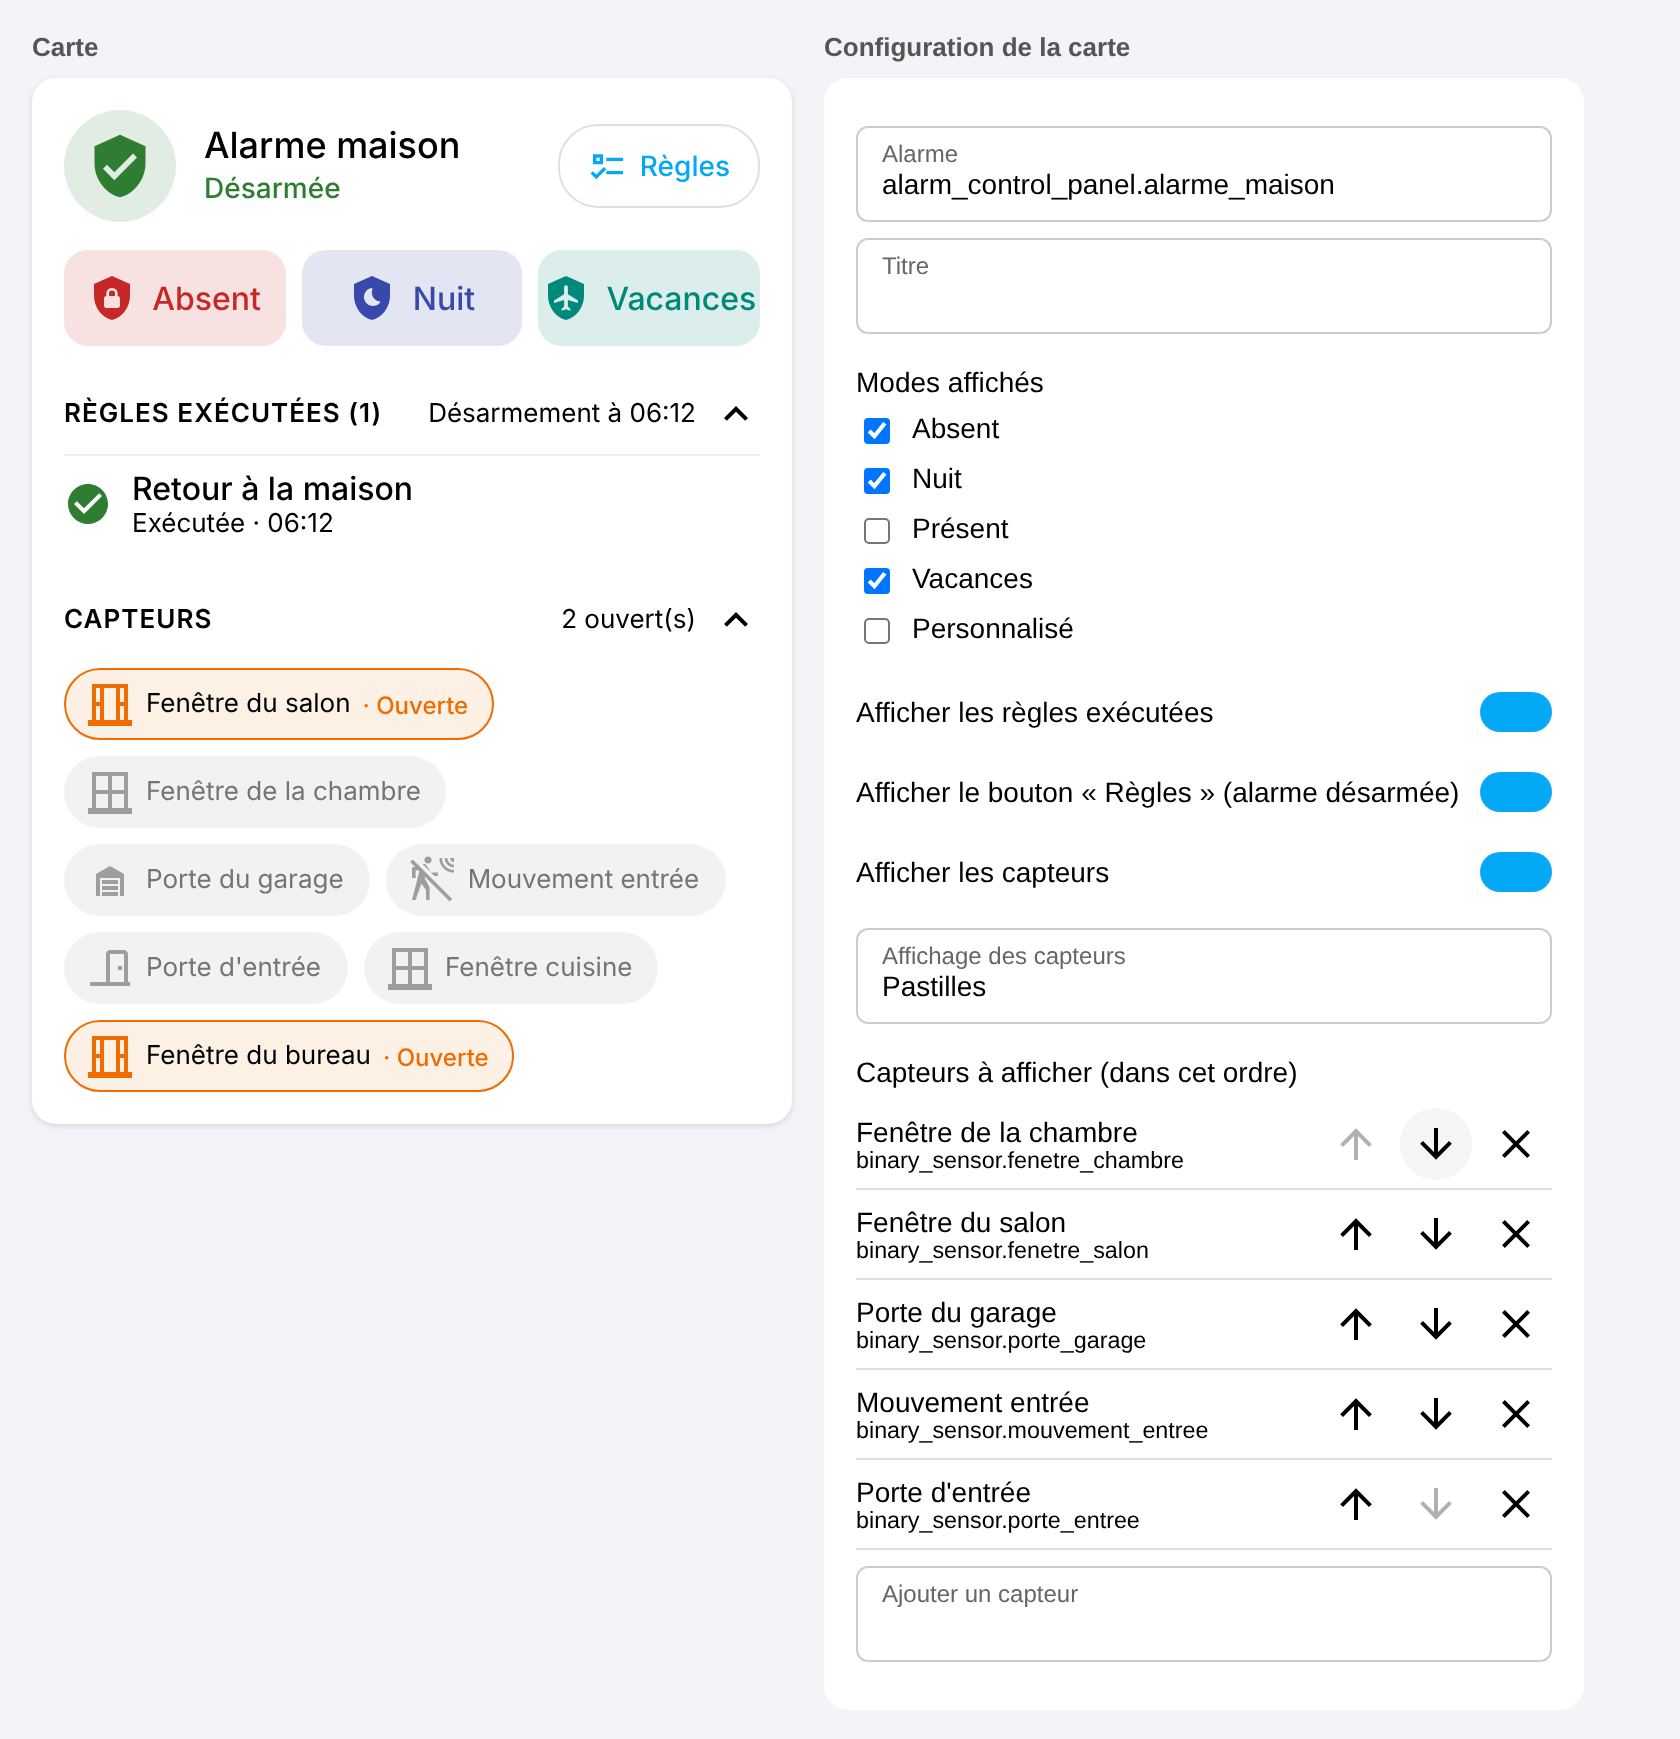
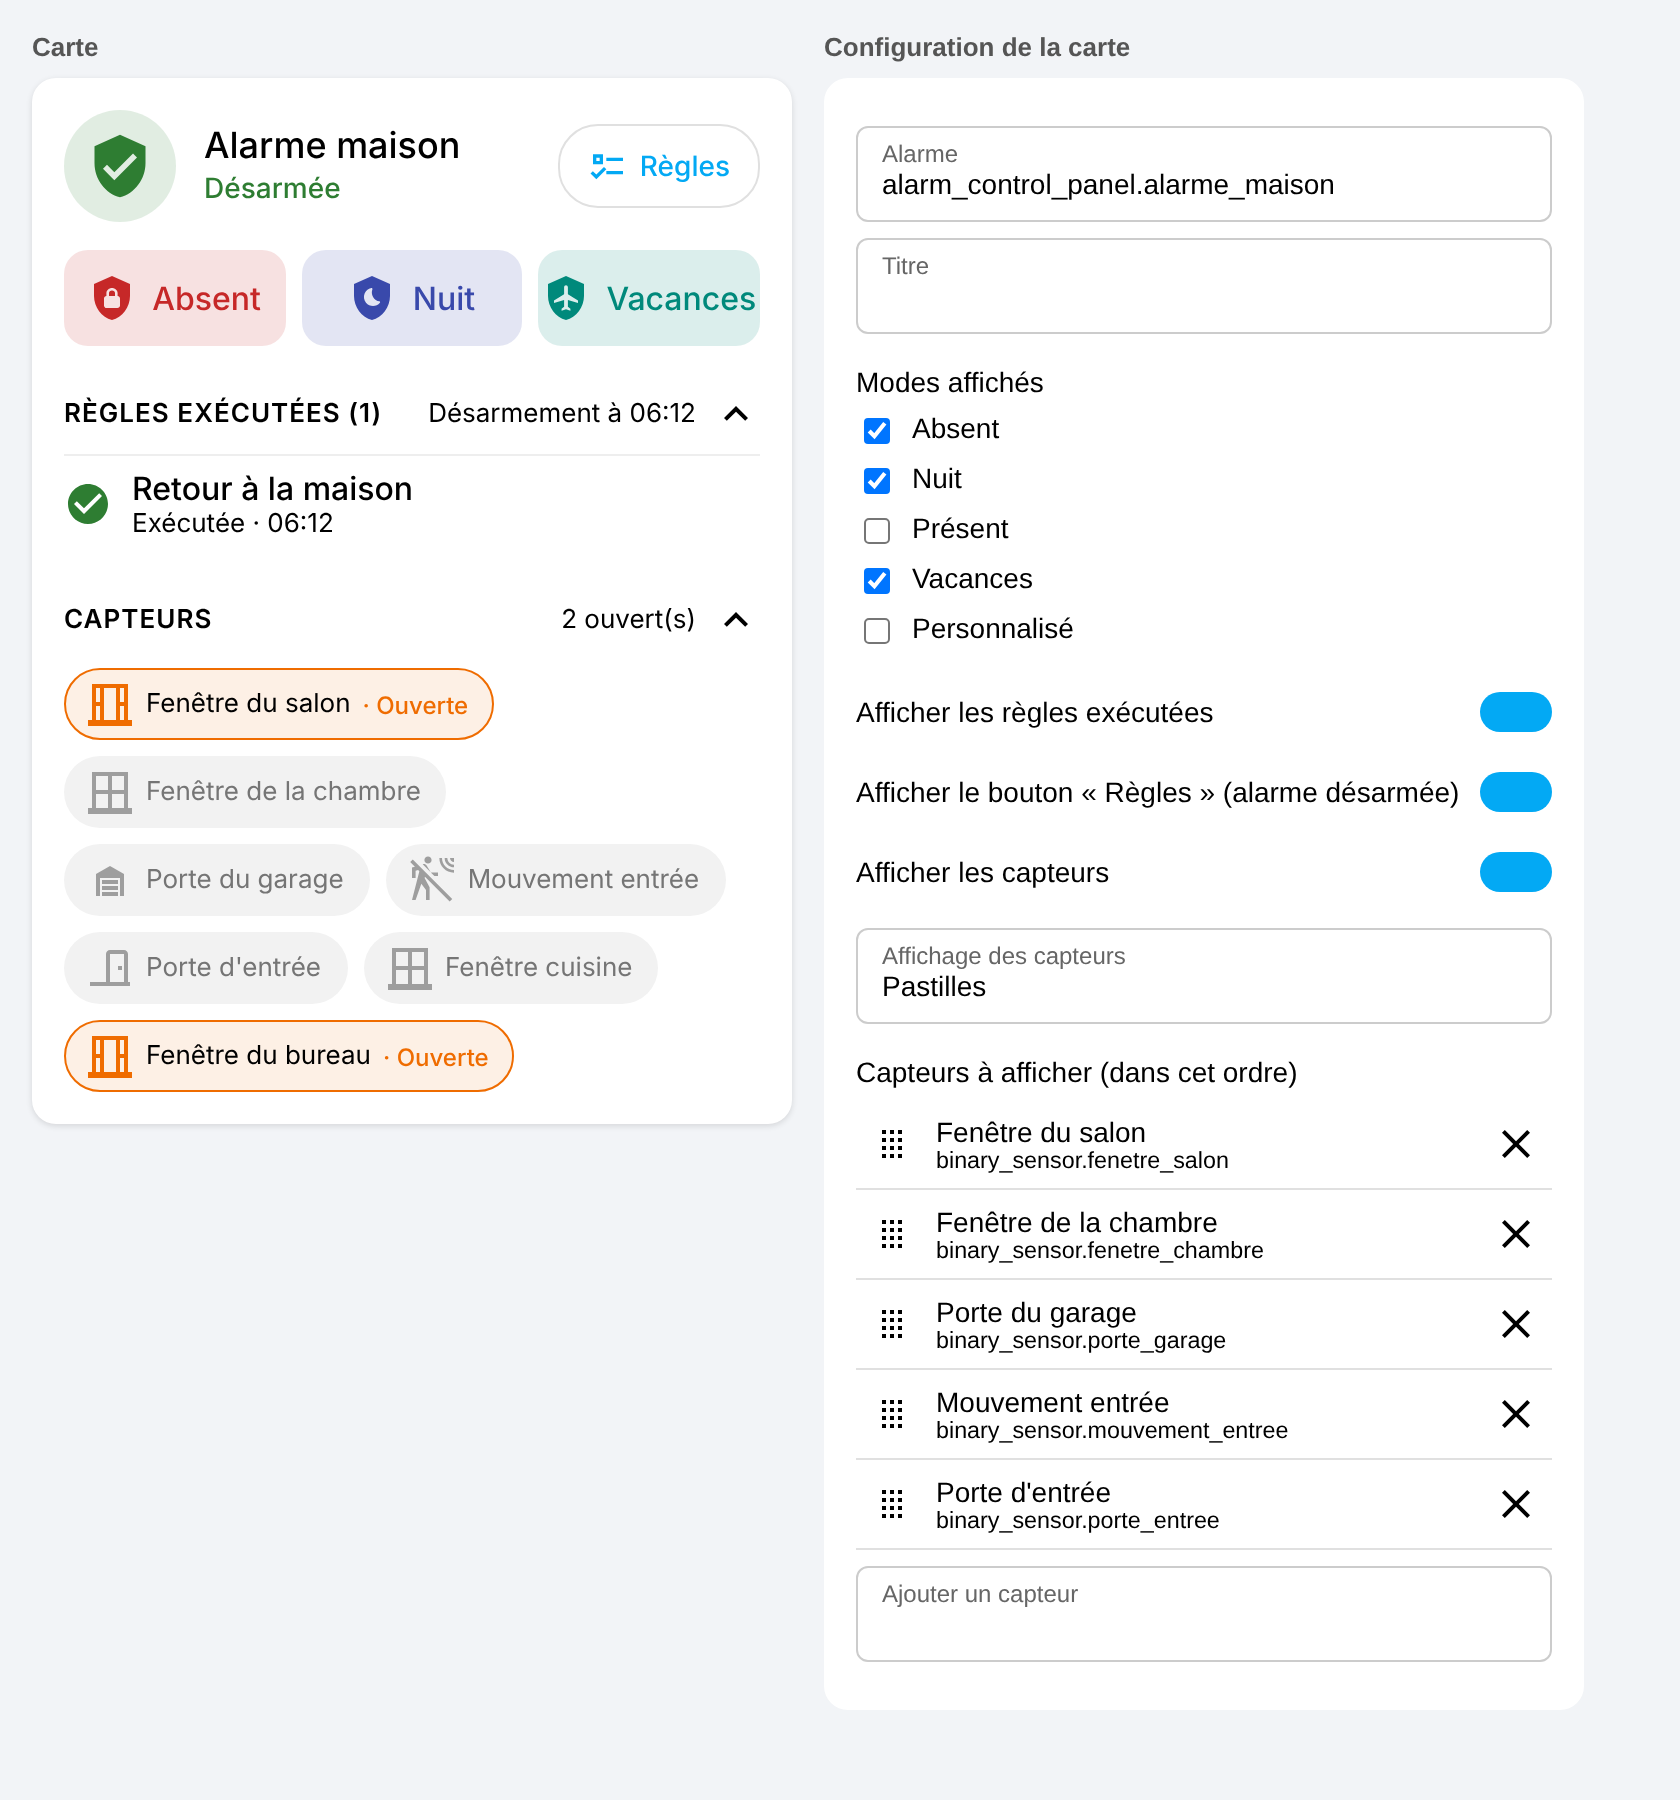
Add files via upload

diff --git a/custom_components/protocole_alarme/frontend/protocole-alarme-card.js b/custom_components/protocole_alarme/frontend/protocole-alarme-card.js
@@ -14,7 +14,7 @@ const TEXTES = {
       disarming: "Désarmement…", triggered: "Alarme déclenchée !", unavailable: "Indisponible", unknown: "Inconnu" },
     modes: { armed_away: "Absent", armed_night: "Nuit", armed_home: "Présent", armed_vacation: "Vacances", armed_custom_bypass: "Personnalisé" },
     ed: { entity: "Alarme", nom: "Titre", modes: "Modes affichés", capteurs: "Capteurs à afficher (dans cet ordre)",
-      ajouter_capteur: "Ajouter un capteur", monter: "Monter", descendre: "Descendre", retirer: "Retirer", aucun_capteur: "Aucun capteur.",
+      ajouter_capteur: "Ajouter un capteur", deplacer: "Glisser pour déplacer (ou flèches haut / bas)", deplace: "{nom} : position {n} sur {total}", retirer: "Retirer", aucun_capteur: "Aucun capteur.",
       afficher_regles: "Afficher les règles exécutées", afficher_capteurs: "Afficher les capteurs", affichage_capteurs: "Affichage des capteurs",
       afficher_panneau: "Afficher le bouton « Règles » (alarme désarmée)" },
     styles: { pastilles: "Pastilles", lignes: "Liste sur deux colonnes", resume: "Résumé (capteurs ouverts seulement)" },
@@ -33,7 +33,7 @@ const TEXTES = {
       disarming: "Disarming…", triggered: "Alarm triggered!", unavailable: "Unavailable", unknown: "Unknown" },
     modes: { armed_away: "Away", armed_night: "Night", armed_home: "Home", armed_vacation: "Vacation", armed_custom_bypass: "Custom" },
     ed: { entity: "Alarm", nom: "Title", modes: "Modes shown", capteurs: "Sensors to show (in this order)",
-      ajouter_capteur: "Add a sensor", monter: "Move up", descendre: "Move down", retirer: "Remove", aucun_capteur: "No sensor.",
+      ajouter_capteur: "Add a sensor", deplacer: "Drag to move (or up / down arrow keys)", deplace: "{nom}: position {n} of {total}", retirer: "Remove", aucun_capteur: "No sensor.",
       afficher_regles: "Show rules that ran", afficher_capteurs: "Show sensors", affichage_capteurs: "Sensor display",
       afficher_panneau: "Show the “Rules” button (alarm disarmed)" },
     styles: { pastilles: "Chips", lignes: "Two-column list", resume: "Summary (open sensors only)" },
@@ -307,7 +307,8 @@ class ProtocoleAlarmeCardEditor extends HTMLElement {
   setConfig(config) { this._config = config; this._rendu(); }
   set hass(hass) {
     this._hass = hass;
-    if (this._form) { this._form.hass = hass; this._ajout.hass = hass; this._liste(); } else this._rendu();
+    // Pas de redessin pendant un glisser-déposer : il interromprait le geste
+    if (this._form) { this._form.hass = hass; this._ajout.hass = hass; if (!this._glisse) this._liste(); } else this._rendu();
   }
 
   _changer(config) {
@@ -322,7 +323,7 @@ class ProtocoleAlarmeCardEditor extends HTMLElement {
       this._form = document.createElement("ha-form");
       this._form.computeLabel = (s) => T.ed[s.name] || s.name;
       this._form.addEventListener("value-changed", (e) => this._changer({ ...e.detail.value, capteurs: this._config.capteurs || [] }));
-      // Capteurs : liste ordonnée (monter / descendre / retirer) + sélecteur pour en ajouter
+      // Capteurs : liste ordonnée par glisser-déposer (poignée, souris ou doigt ; flèches au clavier) + sélecteur pour en ajouter
       this._bloc = document.createElement("div");
       this._bloc.className = "pa-capteurs";
       this._ajout = document.createElement("ha-form");
@@ -337,7 +338,14 @@ class ProtocoleAlarmeCardEditor extends HTMLElement {
       });
       const style = document.createElement("style");
       style.textContent = `.pa-capteurs { margin: 16px 0 8px; } .pa-titre { font-weight: 500; margin-bottom: 6px; }
-        .pa-ligne { display: flex; align-items: center; gap: 4px; padding: 4px 0; border-bottom: 1px solid var(--divider-color, #e0e0e0); }
+        .pa-ligne { display: flex; align-items: center; gap: 4px; padding: 4px 0; border-bottom: 1px solid var(--divider-color, #e0e0e0);
+          background: var(--card-background-color, var(--primary-background-color, #fff)); position: relative; }
+        .pa-ligne.pa-glisse { z-index: 2; box-shadow: 0 4px 14px rgba(0,0,0,.18); border-radius: 8px; opacity: .95; }
+        .pa-poignee { width: 36px; height: 36px; flex: none; display: inline-flex; align-items: center; justify-content: center; border-radius: 50%;
+          cursor: grab; touch-action: none; color: var(--secondary-text-color); outline: none; }
+        .pa-poignee:hover, .pa-poignee:focus-visible { background: var(--secondary-background-color, #f5f5f5); color: var(--primary-text-color); }
+        .pa-glisse .pa-poignee { cursor: grabbing; }
+        .pa-annonce { position: absolute; width: 1px; height: 1px; overflow: hidden; clip: rect(0 0 0 0); }
         .pa-nom { flex: 1; min-width: 0; overflow: hidden; text-overflow: ellipsis; white-space: nowrap; }
         .pa-nom small { display: block; color: var(--secondary-text-color); }
         .pa-ligne button { width: 36px; height: 36px; border: 0; border-radius: 50%; background: none; color: inherit; cursor: pointer; display: inline-flex; align-items: center; justify-content: center; }
@@ -369,23 +377,86 @@ class ProtocoleAlarmeCardEditor extends HTMLElement {
     this._bloc.innerHTML = `<div class="pa-titre">${esc(T.ed.capteurs)}</div>
       ${liste.length ? liste.map((e, k) => {
         const s = this._hass.states[e];
-        return `<div class="pa-ligne"><span class="pa-nom">${esc(s?.attributes?.friendly_name || e)}<small>${esc(e)}</small></span>
-          <button data-a="haut" data-k="${k}" ${k === 0 ? "disabled" : ""} aria-label="${esc(T.ed.monter)}"><ha-icon icon="mdi:arrow-up"></ha-icon></button>
-          <button data-a="bas" data-k="${k}" ${k === liste.length - 1 ? "disabled" : ""} aria-label="${esc(T.ed.descendre)}"><ha-icon icon="mdi:arrow-down"></ha-icon></button>
+        return `<div class="pa-ligne" data-e="${esc(e)}">
+          <span class="pa-poignee" role="button" tabindex="0" data-k="${k}" title="${esc(T.ed.deplacer)}" aria-label="${esc(T.ed.deplacer)}"><ha-icon icon="mdi:drag"></ha-icon></span>
+          <span class="pa-nom">${esc(s?.attributes?.friendly_name || e)}<small>${esc(e)}</small></span>
           <button data-a="retirer" data-k="${k}" aria-label="${esc(T.ed.retirer)}"><ha-icon icon="mdi:close"></ha-icon></button></div>`;
-      }).join("") : `<div class="pa-vide">${esc(T.ed.aucun_capteur)}</div>`}`;
+      }).join("") : `<div class="pa-vide">${esc(T.ed.aucun_capteur)}</div>`}
+      <div class="pa-annonce" aria-live="polite"></div>`;
     this._bloc.appendChild(this._ajout);
     this._bloc.querySelectorAll("button[data-a]").forEach((b) => b.addEventListener("click", () => {
       const l = [...(this._config.capteurs || [])];
-      const k = Number(b.dataset.k);
-      if (b.dataset.a === "retirer") l.splice(k, 1);
-      else {
-        const j = b.dataset.a === "haut" ? k - 1 : k + 1;
-        [l[k], l[j]] = [l[j], l[k]];
-      }
+      l.splice(Number(b.dataset.k), 1);
       this._changer({ ...this._config, capteurs: l });
       this._liste();
     }));
+    this._bloc.querySelectorAll(".pa-poignee").forEach((p) => {
+      p.addEventListener("pointerdown", (ev) => this._debutGlisse(ev, p));
+      p.addEventListener("keydown", (ev) => {
+        if (ev.key !== "ArrowUp" && ev.key !== "ArrowDown") return;
+        ev.preventDefault();
+        const k = Number(p.dataset.k);
+        const j = ev.key === "ArrowUp" ? k - 1 : k + 1;
+        if (j < 0 || j >= liste.length) return;
+        this._deplacer(k, j, true);
+      });
+    });
+  }
+
+  // Déplace le capteur k à la position j et enregistre ; garde le focus sur sa poignée au clavier
+  _deplacer(k, j, focus) {
+    const l = [...(this._config.capteurs || [])];
+    const [e] = l.splice(k, 1);
+    l.splice(j, 0, e);
+    this._changer({ ...this._config, capteurs: l });
+    this._liste();
+    const T = TEXTES[langue(this._hass)];
+    const nom = this._hass.states[e]?.attributes?.friendly_name || e;
+    const annonce = this._bloc.querySelector(".pa-annonce");
+    if (annonce) annonce.textContent = T.ed.deplace.replace("{nom}", nom).replace("{n}", j + 1).replace("{total}", l.length);
+    if (focus) this._bloc.querySelectorAll(".pa-poignee")[j]?.focus();
+  }
+
+  // Glisser-déposer par la poignée (Pointer Events : souris, doigt, stylet)
+  _debutGlisse(ev, poignee) {
+    if (ev.button !== undefined && ev.button !== 0) return;
+    ev.preventDefault();
+    const ligne = poignee.closest(".pa-ligne");
+    const lignes = [...this._bloc.querySelectorAll(".pa-ligne")];
+    const depart = lignes.indexOf(ligne);
+    if (depart < 0 || lignes.length < 2) return;
+    poignee.setPointerCapture(ev.pointerId);
+    this._glisse = true;
+    ligne.classList.add("pa-glisse");
+    let y0 = ev.clientY;
+    const bouger = (e) => {
+      ligne.style.transform = `translateY(${e.clientY - y0}px)`;
+      // Échange avec la voisine dès que le pointeur dépasse son milieu
+      const prec = ligne.previousElementSibling?.classList.contains("pa-ligne") ? ligne.previousElementSibling : null;
+      const suiv = ligne.nextElementSibling?.classList.contains("pa-ligne") ? ligne.nextElementSibling : null;
+      if (suiv) {
+        const r = suiv.getBoundingClientRect();
+        if (e.clientY > r.top + r.height / 2) { suiv.after(ligne); y0 += r.height; ligne.style.transform = `translateY(${e.clientY - y0}px)`; return; }
+      }
+      if (prec) {
+        const r = prec.getBoundingClientRect();
+        if (e.clientY < r.top + r.height / 2) { prec.before(ligne); y0 -= r.height; ligne.style.transform = `translateY(${e.clientY - y0}px)`; }
+      }
+    };
+    const finir = () => {
+      poignee.removeEventListener("pointermove", bouger);
+      poignee.removeEventListener("pointerup", finir);
+      poignee.removeEventListener("pointercancel", finir);
+      this._glisse = false;
+      ligne.classList.remove("pa-glisse");
+      ligne.style.transform = "";
+      const arrivee = [...this._bloc.querySelectorAll(".pa-ligne")].indexOf(ligne);
+      if (arrivee !== depart) this._deplacer(depart, arrivee, false);
+      else this._liste();
+    };
+    poignee.addEventListener("pointermove", bouger);
+    poignee.addEventListener("pointerup", finir);
+    poignee.addEventListener("pointercancel", finir);
   }
 }
 

diff --git a/custom_components/protocole_alarme/const.py b/custom_components/protocole_alarme/const.py
@@ -3,7 +3,7 @@
 from __future__ import annotations
 
 DOMAIN = "protocole_alarme"
-VERSION = "2026.11.13"
+VERSION = "2026.11.14"
 NOM_APPAREIL = "Protocole Alarme"
 
 PANEL_URL = "protocole-alarme"

diff --git a/README.md b/README.md
@@ -105,7 +105,7 @@ affichage_capteurs: pastilles                # pastilles | lignes (deux colonnes
 afficher_panneau: true                       # bouton « Règles » vers le panneau (alarme désarmée)
 ```
 
-Bouclier : vert (désarmée), rouge (armée), orange (armement, attente), rouge clignotant (alarme déclenchée), gris (indisponible). Les règles affichées sont celles qui ont réellement agi depuis le dernier armement ou désarmement, avec le résultat de leur vérification. Dans l'éditeur, les capteurs se trient avec les flèches (monter / descendre) et se retirent avec la croix. Un appui sur le titre d'une liste la replie ; un appui sur un capteur ouvre sa fiche. Le bouton **Règles** ouvre le panneau Protocole Alarme ; il n'apparaît que lorsque l'alarme est désarmée.
+Bouclier : vert (désarmée), rouge (armée), orange (armement, attente), rouge clignotant (alarme déclenchée), gris (indisponible). Les règles affichées sont celles qui ont réellement agi depuis le dernier armement ou désarmement, avec le résultat de leur vérification. Dans l'éditeur, les capteurs se trient par glisser-déposer avec la poignée ⠿ (à la souris ou au doigt ; au clavier, flèches haut / bas sur la poignée) et se retirent avec la croix. Un appui sur le titre d'une liste la replie ; un appui sur un capteur ouvre sa fiche. Le bouton **Règles** ouvre le panneau Protocole Alarme ; il n'apparaît que lorsque l'alarme est désarmée.
 
 ### Captures d'écran
 
@@ -267,7 +267,7 @@ affichage_capteurs: pastilles             # pastilles (chips) | lignes (two colu
 afficher_panneau: true                    # “Rules” button to the panel (alarm disarmed)
 ```
 
-Shield: green (disarmed), red (armed), orange (arming, pending), blinking red (alarm triggered), grey (unavailable). The rules shown are the ones that actually acted since the last arming or disarming, with their check result. In the editor, sensors are sorted with the arrows (up / down) and removed with the cross. Tap a list title to collapse it; tap a sensor to open its details. The **Rules** button opens the Protocole Alarme panel; it only shows while the alarm is disarmed.
+Shield: green (disarmed), red (armed), orange (arming, pending), blinking red (alarm triggered), grey (unavailable). The rules shown are the ones that actually acted since the last arming or disarming, with their check result. In the editor, sensors are sorted by drag and drop with the ⠿ handle (mouse or finger; with the keyboard, up / down arrows on the handle) and removed with the cross. Tap a list title to collapse it; tap a sensor to open its details. The **Rules** button opens the Protocole Alarme panel; it only shows while the alarm is disarmed.
 
 ### Screenshots
 
